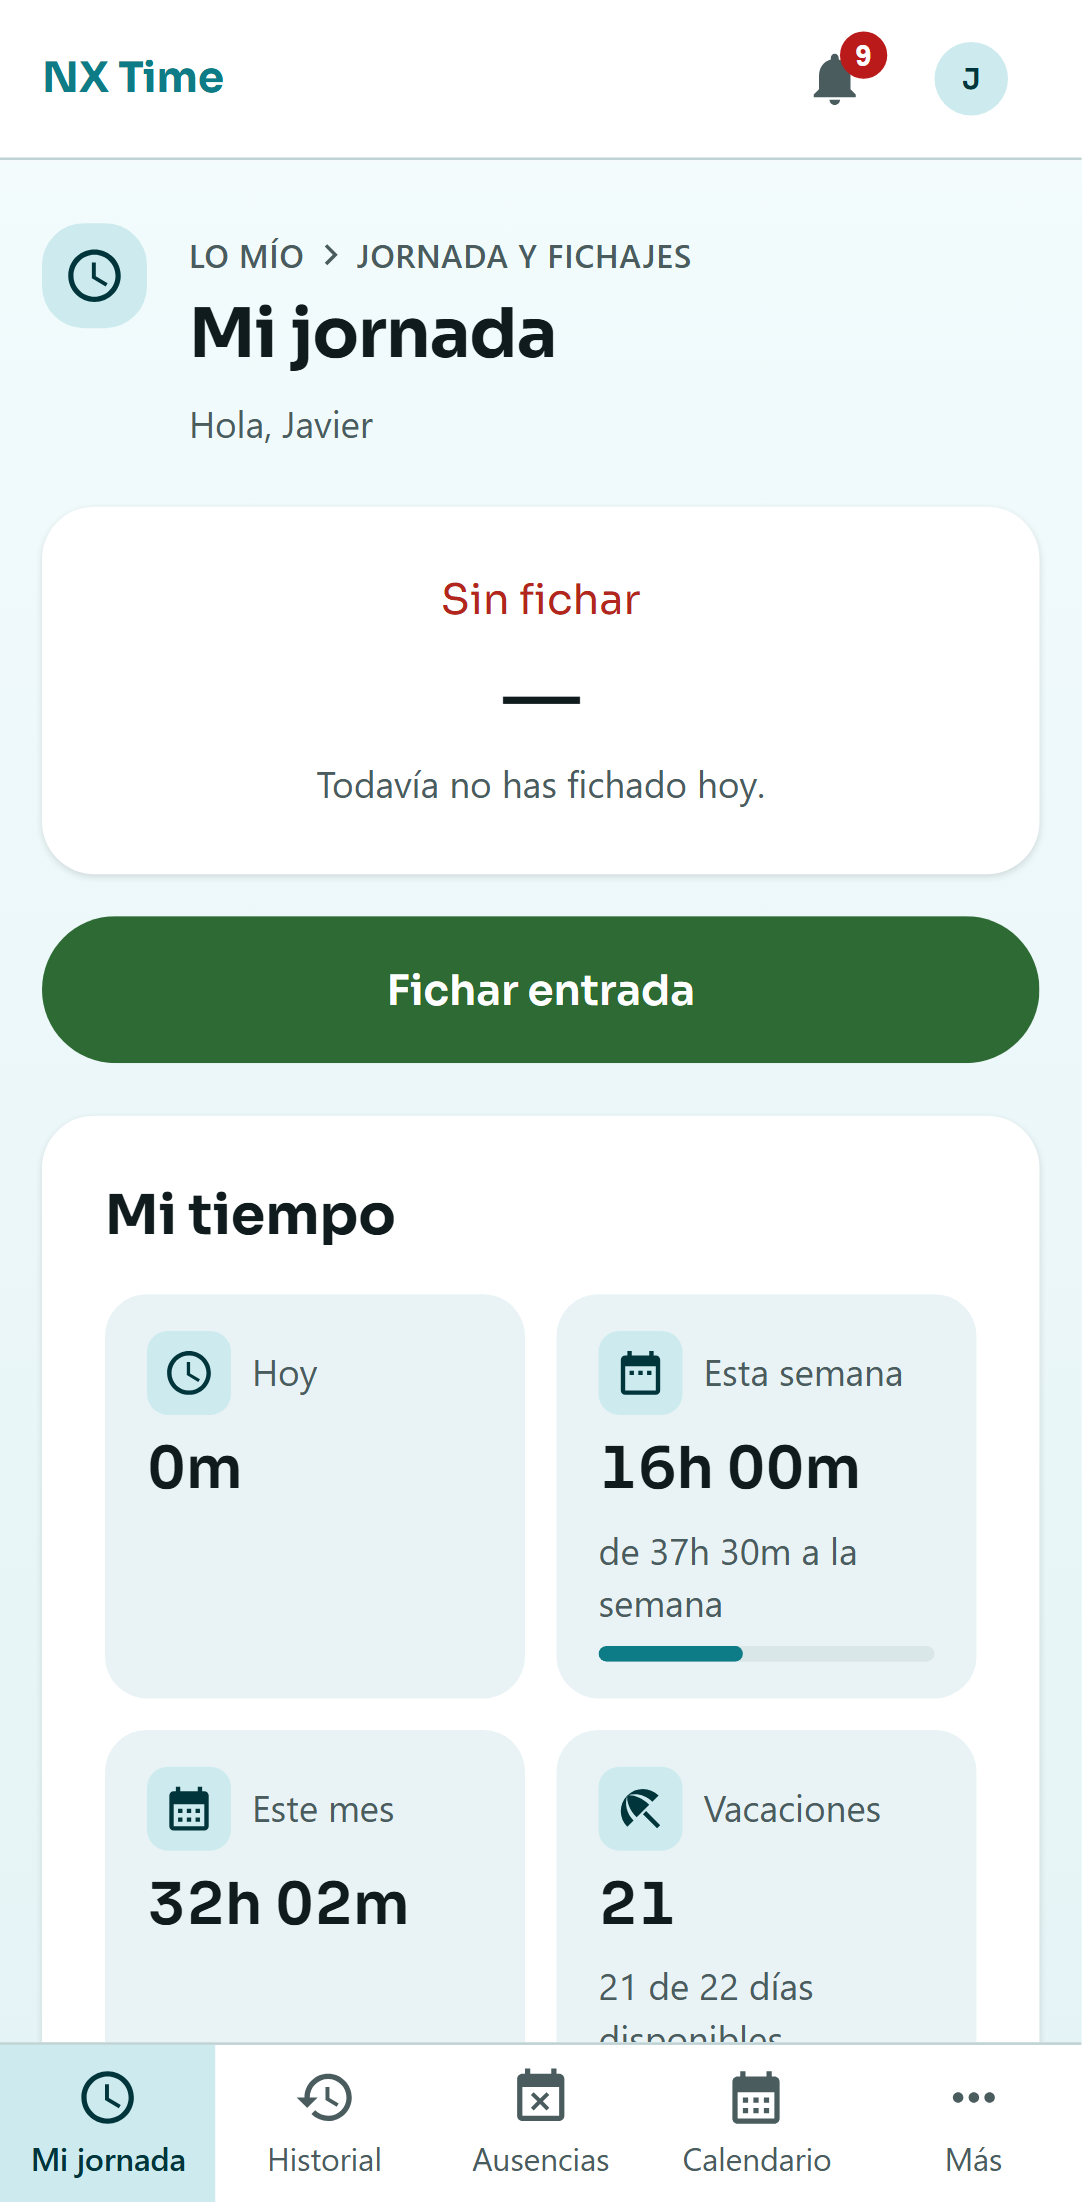
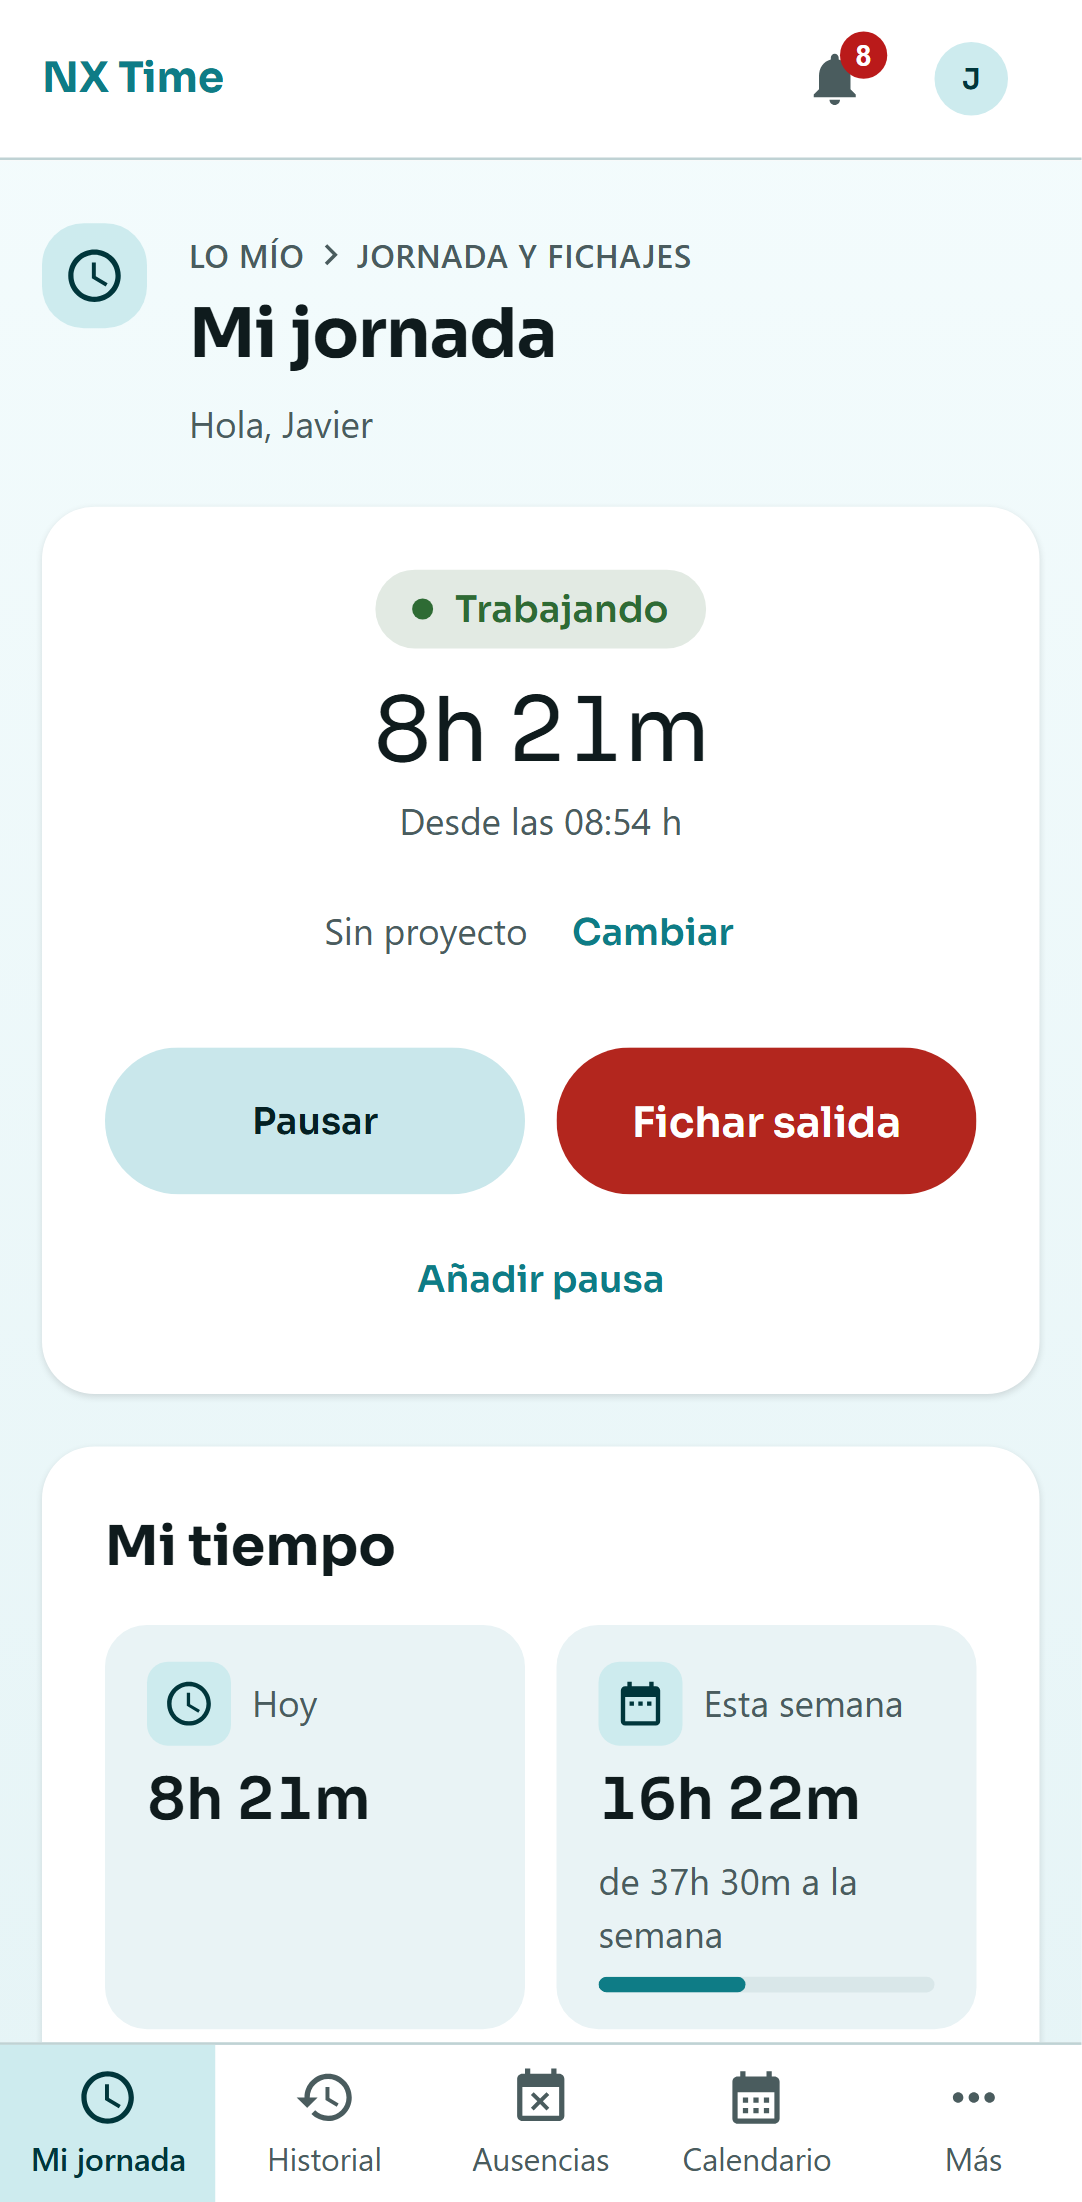
«Mi jornada» pone fichar arriba y a todo el ancho, y el resumen debajo en dos columnas
En pantalla ancha, fichar vivía en una columna de 440 px a la izquierda, con
un hueco vacío debajo, y el resumen se llevaba el resto: lo accesorio ocupaba
más que la acción a la que se viene.

Ahora la tarjeta de la jornada ocupa el ancho de la página y lleva dentro el
cronómetro, el proyecto, los botones y el aviso de por qué no se ha podido.
Debajo, «Mi tiempo» (de dos en dos) y «Mis horas» se reparten la fila; por
debajo de 1100 px sigue todo en una columna, en el mismo orden.

- El estado es una píldora con su punto, del color de `ColoresJornada`; el
  punto late mientras corre el tiempo (no con «reducir movimiento»).
- En escritorio el cronómetro va a 56 px. No es un token: `tokens.css` sale de
  `Type.kt` y la app no tiene un tamaño mayor que `displayMedium`.
- La columna de las cifras no baja de 360 px: con el lateral abierto y
  1100 px, «31h 59m» ya no cabía en su recuadro.
- La captura de escritorio del README se saca a 1060 px de alto para que
  quepa la página entera.

diff --git a/nx-time-frontend-web/src/paginas/jornada/Fichar.tsx b/nx-time-frontend-web/src/paginas/jornada/Fichar.tsx
@@ -1,9 +1,10 @@
 /**
- * Mi jornada: el cronómetro, los botones de fichar, el proyecto, y al lado mi tiempo.
+ * Mi jornada: el cronómetro, los botones de fichar, el proyecto, y debajo mi tiempo.
  *
  * Es la `FicharScreen` de la app, con la hoja de detalle de tiempo ya abierta
- * al lado: en una pantalla ancha hay sitio para el cronómetro y el gráfico a
- * la vez, y en el móvil van uno debajo del otro.
+ * debajo. Fichar va arriba y a todo el ancho, que es a lo que se viene; en una
+ * pantalla ancha, las cifras y el gráfico se reparten la fila de debajo, y en
+ * el móvil va todo en una columna.
  *
  * **El estado de la jornada no se deduce, se pregunta.** `GET /fichaje/activo`
  * devuelve la jornada abierta o un 204, y `enPausa` viene del servidor. Llevar
@@ -164,47 +165,46 @@ export function Fichar() {
 
       {hoy.data?.laborable === false && <Aviso>{F.noLaborable(hoy.data.motivo ?? '')}</Aviso>}
 
-      <div className="nx-rejilla-jornada">
-        <div className="nx-columna">
-          <AvisoDeCuadrante />
-          <EstadoDeConsulta consulta={activa}>
-            {(j) => {
-              const estado = j === null ? 'parado' : j.enPausa === true ? 'en-pausa' : 'trabajando';
-              const texto = { parado: F.parado, 'en-pausa': F.enPausa, trabajando: F.trabajando }[estado];
-              const desde =
-                j === null
-                  ? F.sinJornada
-                  : j.enPausa === true && j.inicioPausaActual !== undefined
-                    ? F.enPausaDesde(hora(j.inicioPausaActual))
-                    : F.desde(hora(j.horaEntrada));
-              const puedeCambiar =
-                j !== null && j.enPausa !== true && disponibles.some((p) => p.id !== enCurso?.id);
+      <EstadoDeConsulta consulta={activa}>
+        {(j) => {
+          const estado = j === null ? 'parado' : j.enPausa === true ? 'en-pausa' : 'trabajando';
+          const texto = { parado: F.parado, 'en-pausa': F.enPausa, trabajando: F.trabajando }[estado];
+          const desde =
+            j === null
+              ? F.sinJornada
+              : j.enPausa === true && j.inicioPausaActual !== undefined
+                ? F.enPausaDesde(hora(j.inicioPausaActual))
+                : F.desde(hora(j.horaEntrada));
+          const puedeCambiar = j !== null && j.enPausa !== true && disponibles.some((p) => p.id !== enCurso?.id);
 
-              return (
-                <>
-                  <section className={`nx-tarjeta nx-jornada nx-jornada--${estado}`}>
-                    <p className="nx-jornada__estado">{texto}</p>
-                    <p className="nx-jornada__cronometro">{j === null ? '—' : duracion(segundos)}</p>
-                    <p className="nx-sutil">{desde}</p>
-                    {j !== null && (j.segundosPausaAcumulados ?? 0) > 0 && (
-                      <p className="nx-sutil">{F.pausaAcumulada(duracion(j.segundosPausaAcumulados ?? 0))}</p>
+          return (
+            <>
+              {/* Fichar es lo que se viene a hacer: ocupa el ancho de la página,
+                  con el cronómetro y los botones dentro. El resumen va debajo. */}
+              <section className={`nx-tarjeta nx-jornada nx-jornada--${estado}`}>
+                <p className="nx-jornada__estado">{texto}</p>
+                <p className="nx-jornada__cronometro">{j === null ? '—' : duracion(segundos)}</p>
+                <p className="nx-sutil">{desde}</p>
+                {j !== null && (j.segundosPausaAcumulados ?? 0) > 0 && (
+                  <p className="nx-sutil">{F.pausaAcumulada(duracion(j.segundosPausaAcumulados ?? 0))}</p>
+                )}
+                <AvisoDeCuadrante />
+                {j !== null && (enCurso !== undefined || disponibles.length > 0) && (
+                  <div className="nx-jornada__proyecto">
+                    <span>
+                      {enCurso !== undefined
+                        ? F.proyecto.enCurso(enCurso.codigo ?? '', enCurso.nombre ?? '')
+                        : F.proyecto.sin}
+                    </span>
+                    {puedeCambiar && (
+                      <Boton variante="texto" onClick={() => setEligiendo('cambiar')}>
+                        {F.proyecto.cambiar}
+                      </Boton>
                     )}
-                    {j !== null && (enCurso !== undefined || disponibles.length > 0) && (
-                      <div className="nx-jornada__proyecto">
-                        <span>
-                          {enCurso !== undefined
-                            ? F.proyecto.enCurso(enCurso.codigo ?? '', enCurso.nombre ?? '')
-                            : F.proyecto.sin}
-                        </span>
-                        {puedeCambiar && (
-                          <Boton variante="texto" onClick={() => setEligiendo('cambiar')}>
-                            {F.proyecto.cambiar}
-                          </Boton>
-                        )}
-                      </div>
-                    )}
-                  </section>
+                  </div>
+                )}
 
+                <div className="nx-jornada__acciones">
                   {error !== null && <Aviso>{error}</Aviso>}
 
                   <div className="nx-acciones">
@@ -222,7 +222,11 @@ export function Fichar() {
                     )}
                     {/* Del color de `ColoresJornada`, como el botón de la app: verde
                         para entrar, rojo para salir, ámbar si está en pausa. */}
-                    <Boton className={`nx-boton--fichar nx-boton--fichar-${estado}`} ocupado={ocupado} onClick={() => pulsarPrincipal(j)}>
+                    <Boton
+                      className={`nx-boton--fichar nx-boton--fichar-${estado}`}
+                      ocupado={ocupado}
+                      onClick={() => pulsarPrincipal(j)}
+                    >
                       {j === null ? F.entrar : F.salir}
                     </Boton>
                   </div>
@@ -236,32 +240,32 @@ export function Fichar() {
                       {F.pausa.boton}
                     </Boton>
                   )}
+                </div>
+              </section>
 
-                  <ConfirmarFin
-                    jornada={j}
-                    segundosTrabajados={segundos}
-                    abierto={confirmandoFin && j !== null}
-                    alConfirmar={() => fichar.mutate({ tipo: 'FIN' })}
-                    alCancelar={() => setConfirmandoFin(false)}
-                  />
-                  <ElegirProyecto
-                    modo={eligiendo}
-                    proyectos={proyectos.data}
-                    ocupado={fichar.isPending || cambiarProyecto.isPending}
-                    alElegir={(proyectoId) => {
-                      if (eligiendo === 'empezar') fichar.mutate({ tipo: 'INICIO', proyectoId });
-                      else if (j?.id !== undefined) cambiarProyecto.mutate({ fichajeId: j.id, proyectoId });
-                    }}
-                    alCancelar={() => setEligiendo(null)}
-                  />
-                </>
-              );
-            }}
-          </EstadoDeConsulta>
-        </div>
+              <ConfirmarFin
+                jornada={j}
+                segundosTrabajados={segundos}
+                abierto={confirmandoFin && j !== null}
+                alConfirmar={() => fichar.mutate({ tipo: 'FIN' })}
+                alCancelar={() => setConfirmandoFin(false)}
+              />
+              <ElegirProyecto
+                modo={eligiendo}
+                proyectos={proyectos.data}
+                ocupado={fichar.isPending || cambiarProyecto.isPending}
+                alElegir={(proyectoId) => {
+                  if (eligiendo === 'empezar') fichar.mutate({ tipo: 'INICIO', proyectoId });
+                  else if (j?.id !== undefined) cambiarProyecto.mutate({ fichajeId: j.id, proyectoId });
+                }}
+                alCancelar={() => setEligiendo(null)}
+              />
+            </>
+          );
+        }}
+      </EstadoDeConsulta>
 
-        <Resumen minutosEnCurso={jornada !== null ? Math.floor(segundos / 60) : 0} />
-      </div>
+      <Resumen minutosEnCurso={jornada !== null ? Math.floor(segundos / 60) : 0} />
 
       <ConfirmarNoLaborable
         motivo={noLaborable}

diff --git a/nx-time-frontend-web/src/estilos/base.css b/nx-time-frontend-web/src/estilos/base.css
@@ -127,6 +127,19 @@ h1 {
   .nx-composicion--arriba {
     align-items: start;
   }
+
+  /* Debajo de fichar en Mi jornada: las cifras, y más ancho, el gráfico.
+     Las cifras van de dos en dos y por debajo de 360 px «31h 59m» ya no
+     cabe en su recuadro: con el lateral abierto y 1100 px, pasaba. */
+  .nx-composicion--jornada {
+    grid-template-columns: minmax(360px, 2fr) minmax(0, 3fr);
+    align-items: stretch;
+  }
+
+  /* Si el resumen no ha cargado, el gráfico no se queda en media página. */
+  .nx-composicion--jornada > :only-child {
+    grid-column: 1 / -1;
+  }
 }
 
 /* El índice de una página larga: solo donde hay sitio para tenerlo al lado. */
@@ -491,6 +504,9 @@ h1 {
 
 /* ---- La jornada ---- */
 
+/* Fichar es a lo que se viene: la tarjeta ocupa el ancho de la página, con
+   el cronómetro y los botones dentro y centrados (6/10/2026). Antes era una
+   columna de 440 px a un lado y el resumen se llevaba la pantalla. */
 .nx-jornada {
   text-align: center;
   display: flex;
@@ -498,13 +514,56 @@ h1 {
   gap: 4px;
 }
 
+/* Una píldora con su punto, del color de `ColoresJornada`, que existe justo
+   para esto: que se lea de lejos sin leer nada. El fondo es un tinte del
+   mismo color, como en `.nx-insignia`. */
 .nx-jornada__estado {
+  align-self: center;
+  display: inline-flex;
+  align-items: center;
+  gap: 8px;
+  margin: 0 0 8px;
+  padding: 4px 14px;
+  border-radius: 999px;
   font-family: var(--nx-font-titular);
-  font-size: var(--nx-fs-title-medium);
-  margin: 0;
-  /* El color del estado es de `ColoresJornada`, que existe justo para esto:
-     que se lea de lejos sin leer nada. */
+  font-size: var(--nx-fs-label-large);
+  font-weight: 600;
+  line-height: 22px;
   color: var(--nx-jornada-color, var(--nx-on-surface));
+  background: color-mix(in srgb, var(--nx-jornada-color, var(--nx-on-surface)) 14%, var(--nx-surface));
+}
+
+.nx-jornada__estado::before {
+  content: '';
+  flex: none;
+  width: 8px;
+  height: 8px;
+  border-radius: 50%;
+  background: currentColor;
+}
+
+/* El punto late mientras corre el tiempo, y solo entonces. */
+@media (prefers-reduced-motion: no-preference) {
+  .nx-jornada--trabajando .nx-jornada__estado::before {
+    animation: nx-latido 2s ease-in-out infinite;
+  }
+}
+
+@keyframes nx-latido {
+  50% {
+    opacity: 0.35;
+  }
+}
+
+/* Los botones, y el aviso de por qué no se ha podido: centrados y sin
+   estirarse a lo ancho de la tarjeta. */
+.nx-jornada__acciones {
+  display: flex;
+  flex-direction: column;
+  gap: 12px;
+  width: 100%;
+  max-width: 560px;
+  margin: 20px auto 0;
 }
 
 .nx-jornada--trabajando {
@@ -554,6 +613,26 @@ h1 {
   margin: 0;
   /* Sin esto, el cronómetro se mueve a lo ancho al pasar de 9m a 10m. */
   font-variant-numeric: tabular-nums;
+}
+
+/* En escritorio, más grande y con más aire. El tamaño no sale de los tokens
+   porque la app no tiene uno mayor que `displayMedium`: no tiene pantalla
+   ancha en la que usarlo. */
+@media (min-width: 960px) {
+  .nx-jornada {
+    padding: 32px;
+  }
+
+  .nx-jornada__cronometro {
+    font-size: 56px;
+    line-height: 64px;
+    letter-spacing: -1px;
+  }
+
+  .nx-jornada .nx-boton--fichar,
+  .nx-jornada .nx-acciones:has(> .nx-boton--fichar) > .nx-boton {
+    min-height: 64px;
+  }
 }
 
 /* ---- Avisos ---- */
@@ -1741,19 +1820,6 @@ h2 {
 }
 
 /* ---- Mi jornada (W2) ---- */
-
-.nx-rejilla-jornada {
-  display: grid;
-  grid-template-columns: 1fr;
-  gap: 20px;
-  align-items: start;
-}
-
-@media (min-width: 1100px) {
-  .nx-rejilla-jornada {
-    grid-template-columns: minmax(320px, 440px) 1fr;
-  }
-}
 
 .nx-columna {
   display: flex;

diff --git a/nx-time-frontend-web/src/paginas/jornada/Resumen.tsx b/nx-time-frontend-web/src/paginas/jornada/Resumen.tsx
@@ -7,7 +7,7 @@
  *
  * **La jornada abierta se suma aquí.** El servidor solo cuenta jornadas
  * cerradas (`hora_salida IS NOT NULL`); sin esta suma, quien lleva dos horas
- * fichado leería «Hoy: 0m» con el cronómetro corriendo al lado. Lo mismo para
+ * fichado leería «Hoy: 0m» con el cronómetro corriendo encima. Lo mismo para
  * la barra de hoy en el gráfico.
  */
 
@@ -113,7 +113,7 @@ export function Resumen({ minutosEnCurso }: { minutosEnCurso: number }) {
   const jornadaSemanal = resumen.data?.minutosJornadaSemanal ?? 0;
 
   return (
-    <div className="nx-columna">
+    <div className="nx-composicion nx-composicion--jornada">
       {resumen.data !== undefined && (
         <section className="nx-tarjeta" aria-labelledby="titulo-resumen">
           <h2 id="titulo-resumen">{R.titulo}</h2>

diff --git a/nx-time-frontend-web/e2e/capturas.spec.ts b/nx-time-frontend-web/e2e/capturas.spec.ts
@@ -115,6 +115,9 @@ test.describe('escritorio', () => {
   // La última del escritorio: deja una jornada de segundos en el historial,
   // que no tiene que salir en la captura del historial del equipo.
   test('empleado: la jornada en marcha', async ({ page }) => {
+    // Más alta que las demás: fichar va arriba y el resumen debajo, y a 900 px
+    // la captura cortaba las cifras y el gráfico por la mitad.
+    await page.setViewportSize({ width: 1440, height: 1060 });
     await entrar(page, 'javier.lopez@techcorp.demo');
     const entrada = page.getByRole('button', { name: 'Fichar entrada' });
     const salida = page.getByRole('button', { name: 'Fichar salida' });
